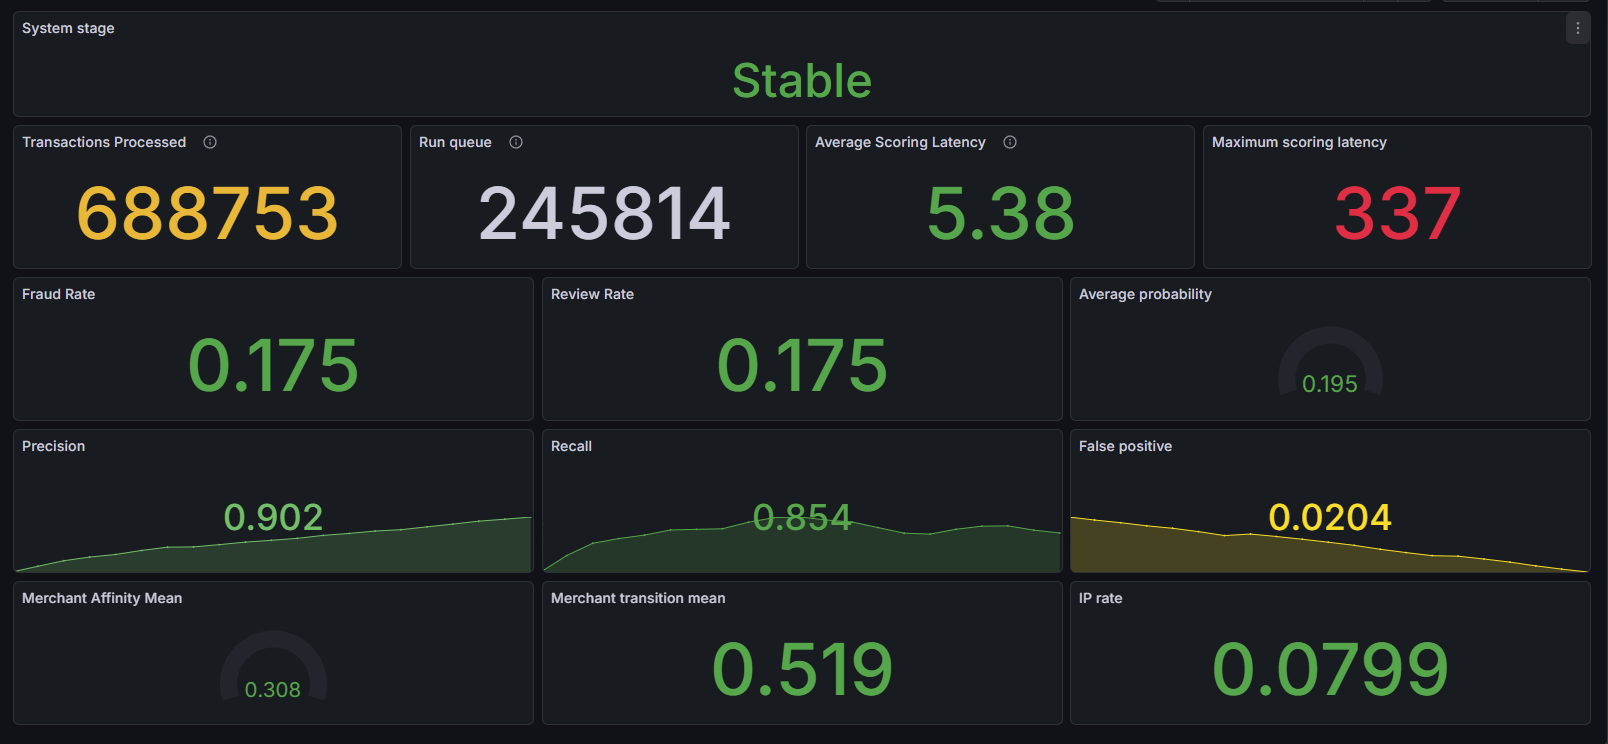
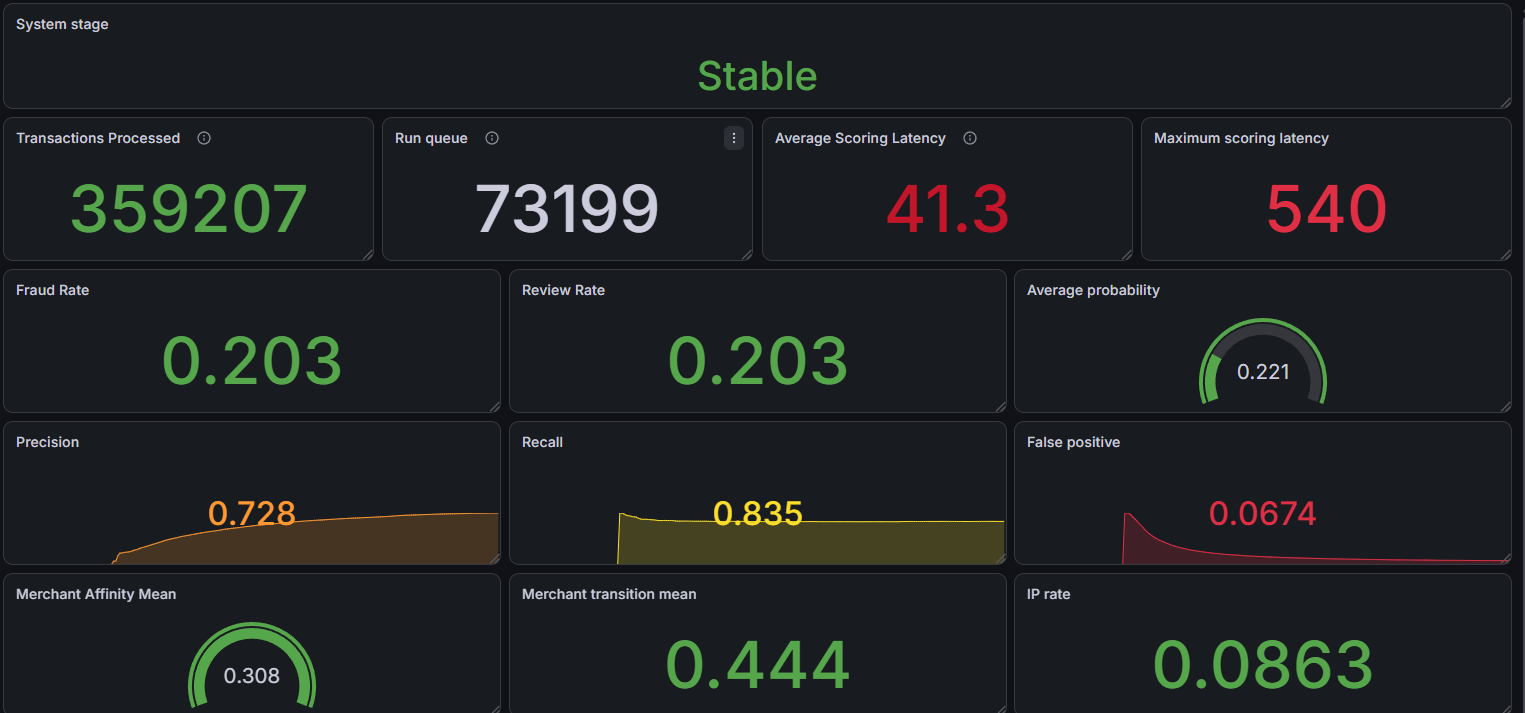
reafct: updated README.md

diff --git a/README.md b/README.md
@@ -4,7 +4,7 @@
 <img src="images/banner.png" alt="Transaction Risk Engine Banner" width="100%">
 </p>
 
-> **End-to-end machine learning platform for streaming fraud detection, explainable AI, real-time monitoring, and analyst investigation APIs.**
+> **Production-oriented end-to-end machine learning platform for real-time fraud detection featuring streaming inference, explainable AI, monitoring, investigation APIs, and AWS deployment.****
 
 <p align="center">
 
@@ -40,6 +40,8 @@ This project demonstrates how an end-to-end machine learning system can be built
 - Experiment tracking using MLflow
 - Dataset versioning using DVC
 - Containerized deployment using Docker Compose
+- Production benchmarking framework
+- AWS EC2 deployment
 
 The system is designed to resemble the architecture used in production fraud detection platforms, combining streaming inference, model monitoring, experiment tracking, and explainable AI into a unified workflow.
 
@@ -55,19 +57,37 @@ Traditional fraud detection often focuses only on model accuracy. This project d
 
 ---
 
-## Production Performance
+## Performance Benchmark
 
-| **Metric** | **Value** |
+### AWS Deployment Benchmark
+
+The platform was deployed on AWS EC2 (c7i.large) using Docker Compose and benchmarked under a sustained real-time transaction workload.
+
+### Deployment Environment
+
+- AWS EC2 (c7i.large)
+- Ubuntu 24.04
+- Docker Compose
+- Redis Streams
+- FastAPI
+- Prometheus
+- Grafana
+- 2 vCPU
+- 8 GB RAM
+
+
+| **Metric** | **Result** |
 |---------|--------:|
-| Average Scoring Latency | 5.38 ms |
-| Maximum Latency | 337 ms |
-| Precision | 0.902 |
-| Recall | 0.854 |
-| False Positive Rate | 2.04% |
-| Fraud Rate | 17.5% |
+| Transactions Processed (in 90 seconds) | 8,953 |
+| Throughput | 94.66 TPS |
+| Average Scoring Latency | 53.49 ms |
+| Maximum Scoring Latency | 748.70 ms |
+| Precision | 0.78 |
+| Recall | 0.85 |
+| False Positive Rate | 5.29% |
 
 
-These metrics were collected from the production-style monitoring dashboard during live transaction simulation.
+The benchmark was executed against the deployed AWS environment while the complete streaming pipeline (Redis Streams, FastAPI, Prometheus, Grafana, monitoring, and scoring consumers) was active.
 
 ## System Architecture
 
@@ -90,6 +110,8 @@ These metrics were collected from the production-style monitoring dashboard duri
 
 
 The architecture separates online inference, offline model development, monitoring, and investigation workflows into loosely coupled components, enabling scalable deployment and independent service evolution.
+
+The complete platform has been deployed on AWS EC2 using Docker Compose, with Redis Streams providing event-driven communication between microservices and Prometheus/Grafana enabling production-style observability.
 
 ---
 
@@ -255,16 +277,16 @@ Pipeline stages include:
 
 | Layer | Technology |
 |-------|-----------|
-| 💻 Programming | Python |
-| 🌊 Streaming | Redis Streams |
-| 🤖 Machine Learning | XGBoost, Scikit-learn |
-| 🔍 Explainability | SHAP |
-| 🚀 API | FastAPI |
-| 📊 Monitoring | Prometheus, Grafana |
-| 📈 Experiment Tracking | MLflow |
-| 📦 Data Versioning | DVC |
-| 🐳 Containerization | Docker Compose |
-| 📚 Data Processing | Pandas, NumPy |
+| Programming | Python |
+| Streaming | Redis Streams |
+| Machine Learning | XGBoost, Scikit-learn |
+| Explainability | SHAP |
+| API | FastAPI |
+| Monitoring | Prometheus, Grafana |
+| Experiment Tracking | MLflow |
+| Data Versioning | DVC |
+| Containerization | Docker Compose |
+| Data Processing | Pandas, NumPy |
 
 ---
 
@@ -298,9 +320,9 @@ transaction-risk-engine/
 
 ## Containerized Deployment
 
-The entire platform runs using Docker Compose.
+The platform is fully containerized using Docker Compose and has been successfully deployed on AWS EC2.
 
-Docker Compose orchestrates the platform's microservices, enabling local deployment with a single command.
+Docker Compose orchestrates the complete production-style deployment, enabling all services to communicate through an isolated Docker network.
 
 - Transaction Simulator
 - Scoring Consumer
@@ -315,6 +337,17 @@ Docker Compose orchestrates the platform's microservices, enabling local deploym
 <img src="images/docker-images.png" width="100%">
 </p>
 
+Deployment includes:
+
+- FastAPI
+- Redis Streams
+- Transaction Simulator
+- 10 Scoring Consumers
+- 4 Monitoring Consumers
+- 4 Feedback Consumers
+- Prometheus
+- Grafana
+
 ```bash
 docker compose up --build
 ```
@@ -328,7 +361,11 @@ Each service runs inside an isolated Docker container and communicates through t
 ### Swagger UI
 
 ```
-http://localhost:8000/docs
+Local:
+http://localhost:8000
+
+AWS:
+http://<server-ip>:8000
 ```
 
 Interactive OpenAPI documentation is automatically generated by FastAPI.
@@ -340,41 +377,70 @@ Interactive OpenAPI documentation is automatically generated by FastAPI.
 ### Grafana
 
 ```
+Local:
 http://localhost:3000
+
+AWS:
+http://<server-ip>:3001
 ```
 
 ### Prometheus
 
 ```
+Local:
 http://localhost:9090
+
+AWS:
+http://<server-ip>:9090
 ```
 
 The monitoring stack provides real-time operational visibility into latency, throughput, fraud rate, review rate, and model performance.
 
 ---
+## Benchmark Framework
 
-## Performance
+The project includes a custom benchmarking framework that validates system health before collecting performance metrics.
 
-The current implementation provides:
+The benchmark measures:
 
-- Online behavioral feature generation
-- Low-latency XGBoost inference
-- Explainable predictions using SHAP
-- Asynchronous monitoring
-- Redis-backed streaming pipeline
-- Production-style containerized deployment
+- Transaction throughput (TPS)
+- Average and peak scoring latency
+- CPU utilization
+- Memory utilization
+- Precision
+- Recall
+- False Positive Rate
+- Queue health
+
+This enables repeatable performance evaluation across different deployment environments.
+
+<p align="center">
+<img src="images/benchmark-metrics.png" width="100%">
+</p>
+
+## Benchmark Highlights
+
+The deployed platform demonstrates:
+
+- Sustained streaming throughput of approximately **95 TPS**
+- Real-time Redis Stream processing
+- Multi-worker asynchronous scoring pipeline
+- SHAP-based explainable fraud predictions
+- Production monitoring with Prometheus & Grafana
+- Automated benchmark framework for latency, throughput, CPU, memory, and model quality evaluation
+
+The benchmark performs automated system health validation before collecting performance metrics to ensure measurements are taken only after the platform reaches a stable operating state.
 
 ---
 
 ## Future Enhancements
 
-- Kubernetes deployment
-- CI/CD pipeline
+- CI/CD with GitHub Actions
+- Kubernetes (Amazon EKS)
+- Horizontal Auto Scaling
 - MLflow Model Registry
-- Canary deployments
-- Online retraining
-- Kafka integration
-- Cloud deployment (AWS)
+- Canary Model Deployment
+- Kafka Event Streaming
 
 ---
 
